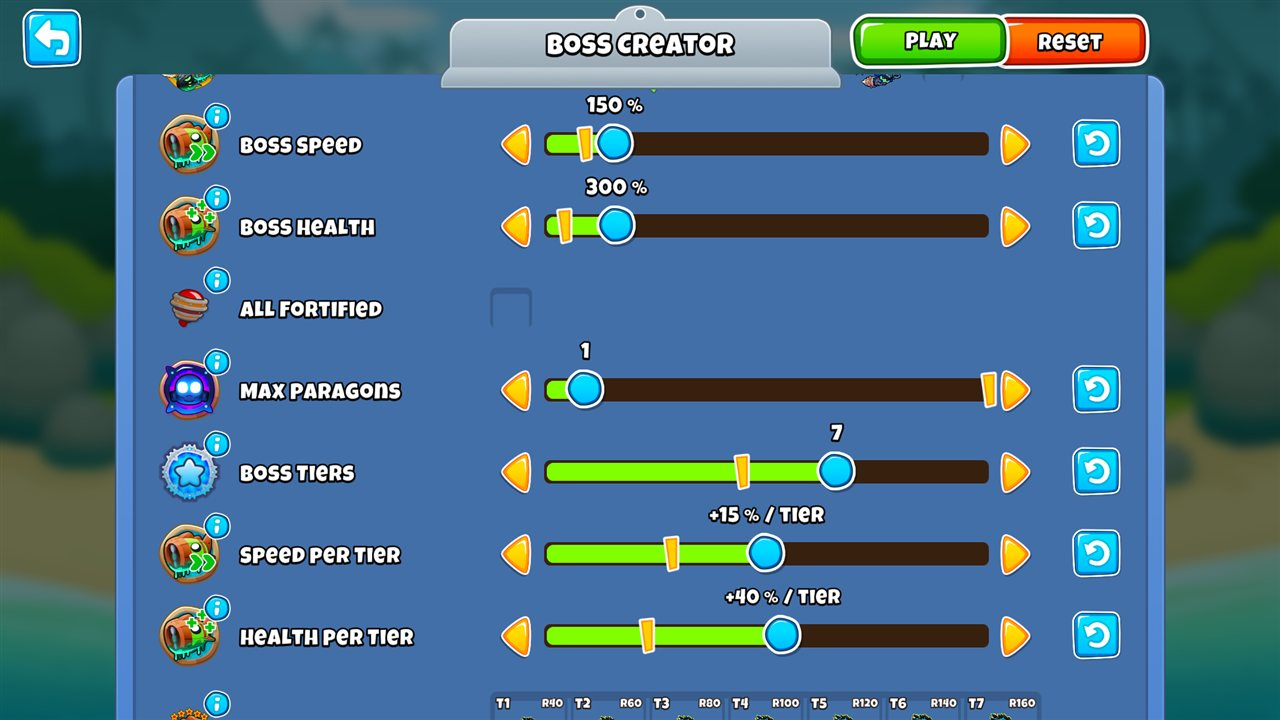
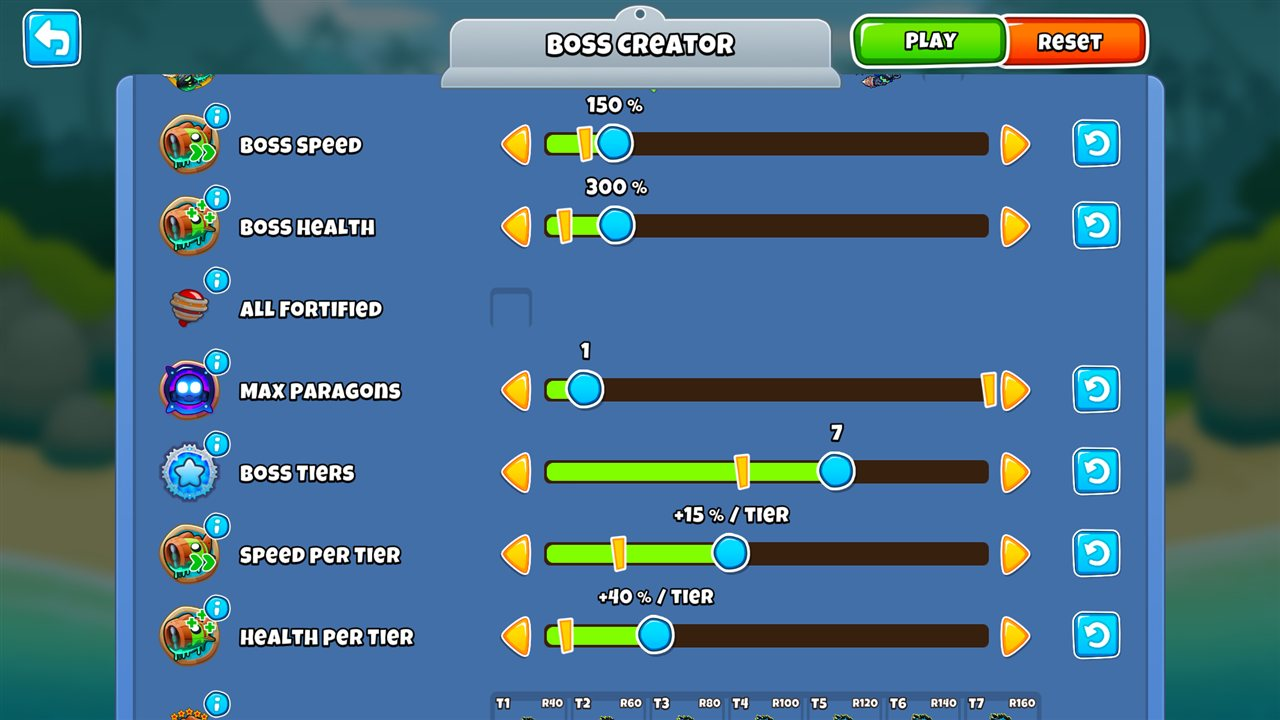
Add per tier steps up evenly, and give codes with them version 2
Speed and Health per Tier now add their share of the normal value for every tier after the first (+100 %
health makes tiers 2-5 x2, x3, x4 and x5) instead of compounding, with ranges -10..+50 % and -10..+200 %.
Old Extra Tier Health converts to the value that gives tier 6 the same health.

Share codes that use these options start with CBC2: so 2.2 asks for an update instead of loading them
without them; codes without them stay CBC1: and both read the same way.

diff --git a/Config/TierMath.cs b/Config/TierMath.cs
@@ -17,10 +17,10 @@ public static class TierMath
     public const int FirstSpawnRound = 40;
     public const int RoundsBetweenTiers = 20;
     public const int MaxRound = 1000;
-    public const int MinSpeedPerTier = -20;
+    public const int MinSpeedPerTier = -10;
     public const int MaxSpeedPerTier = 50;
-    public const int MinHealthPerTier = -30;
-    public const int MaxHealthPerTier = 100;
+    public const int MinHealthPerTier = -10;
+    public const int MaxHealthPerTier = 200;
     public const int PerTierStep = 5;
 
     /// <summary>
@@ -32,6 +32,11 @@ public static class TierMath
     /// No tier gets more than this much faster than the game makes it, however many tiers there are
     /// </summary>
     public const double MaxSpeedFactor = 5;
+
+    /// <summary>
+    /// Later tiers never drop below this share of the game's speed or health, however low the setting
+    /// </summary>
+    public const double MinPerTierFactor = 0.1;
 
     /// <summary>
     /// Boss models store health as an int, and boss health multipliers are applied on top of it
@@ -98,18 +103,23 @@ public static class TierMath
     public static string FormatRounds(IEnumerable<int> rounds) => string.Join(", ", rounds);
 
     /// <summary>
-    /// How much faster a tier is than the game makes it: <paramref name="percentPerTier"/> more for every tier after
-    /// the first, at most <see cref="MaxSpeedFactor"/>
+    /// How much faster a tier is than the game makes it: <paramref name="percentPerTier"/> of its speed added for
+    /// every tier after the first, so +20 % gives tier 3 ×1.4. At most <see cref="MaxSpeedFactor"/>.
     /// </summary>
     public static double SpeedFactor(int tier, int percentPerTier) =>
-        Math.Min(Math.Pow(1 + percentPerTier / 100.0, Math.Max(tier - 1, 0)), MaxSpeedFactor);
+        Math.Min(PerTierFactor(tier, percentPerTier), MaxSpeedFactor);
 
     /// <summary>
-    /// How much more health a tier has than the game would give it: <paramref name="percentPerTier"/> more for every
-    /// tier after the first
+    /// How much more health a tier has than the game would give it: <paramref name="percentPerTier"/> of its health
+    /// added for every tier after the first, so +100 % gives tier 5 ×5
     /// </summary>
-    public static double HealthFactor(int tier, int percentPerTier) =>
-        Math.Pow(1 + percentPerTier / 100.0, Math.Max(tier - 1, 0));
+    public static double HealthFactor(int tier, int percentPerTier) => PerTierFactor(tier, percentPerTier);
+
+    /// <summary>
+    /// 1 + percent × (tier - 1), never below <see cref="MinPerTierFactor"/>
+    /// </summary>
+    private static double PerTierFactor(int tier, int percentPerTier) =>
+        Math.Max(1 + percentPerTier / 100.0 * Math.Max(tier - 1, 0), MinPerTierFactor);
 
     /// <summary>
     /// Health of a tier relative to the game's tier of the same number, or to tier 5 above that: tiers above 5 get
@@ -122,12 +132,13 @@ public static class TierMath
     public static int ClampHealthPerTier(int percent) => Math.Clamp(percent, MinHealthPerTier, MaxHealthPerTier);
 
     /// <summary>
-    /// The Health per tier that gives tiers above 5 the health the old Extra Tier Health setting gave them, rounded
-    /// to the slider's step. Tiers 2-5 now get it too, which the old setting didn't do.
+    /// The Health per tier that gives tier 6 the health the old Extra Tier Health setting gave it, rounded to the
+    /// slider's step. Tiers 2-5 now get it too, which the old setting didn't do.
     /// </summary>
     public static int HealthPerTierFromExtraTierHealth(int extraTierHealth)
     {
-        var percent = (extraTierHealth / (ExtraTierStep * 100) - 1) * 100;
+        // Tier 6 used to be tier 5 x Extra Tier Health; now it is tier 5 x 1.5 x (1 + 5 x Health per tier)
+        var percent = (extraTierHealth / (ExtraTierStep * 100) - 1) / VanillaTiers * 100;
         return ClampHealthPerTier((int) Math.Round(percent / PerTierStep) * PerTierStep);
     }
 

diff --git a/Persistence/SetupCode.cs b/Persistence/SetupCode.cs
@@ -33,8 +33,14 @@ public enum CodeProblem
 /// </summary>
 public static class SetupCode
 {
+    /// <summary>
+    /// Codes start with "CBC", the format version and a colon. Version 1 codes (2.2) are read the same way; a code
+    /// that uses an option 2.2 doesn't know is version 2, so 2.2 asks for an update instead of silently dropping it.
+    /// </summary>
     public const string Prefix = "CBC1:";
+    public const string Version2Prefix = "CBC2:";
     public const string AnyVersionPrefix = "CBC";
+    public const int PrefixLength = 5;
 
     /// <summary>
     /// Longer codes are refused without being read
@@ -58,13 +64,18 @@ public static class SetupCode
             ["o"] = Diff(OptionsJson(options), OptionsJson(new BossOptions())) ?? new JObject(),
             ["c"] = Diff(ChallengeJson(dcm), ChallengeJson(DailyChallengeModel.CreateDefaultEditorModel())) ?? new JObject()
         };
-        return Pack(payload.ToString(Formatting.None));
+        return Pack(payload.ToString(Formatting.None), NeedsVersion2(options) ? Version2Prefix : Prefix);
     }
+
+    /// <summary>
+    /// Whether the code uses an option that version 1 readers (2.2) don't know
+    /// </summary>
+    public static bool NeedsVersion2(BossOptions options) => options.SpeedPerTier != 0 || options.HealthPerTier != 0;
 
     /// <summary>
     /// Turns JSON into a code without any checks, for tests
     /// </summary>
-    internal static string Pack(string json) => Prefix + ToBase64Url(Deflate(json));
+    internal static string Pack(string json, string prefix = Prefix) => prefix + ToBase64Url(Deflate(json));
 
     /// <summary>
     /// Reads a code. Never throws: anything that isn't a usable code gives a <see cref="CodeProblem"/>.
@@ -78,7 +89,7 @@ public static class SetupCode
 
         code = code?.Trim();
         if (string.IsNullOrEmpty(code) || code.Length > MaxLength) return false;
-        if (!code.StartsWith(Prefix))
+        if (!code.StartsWith(Prefix) && !code.StartsWith(Version2Prefix))
         {
             if (code.StartsWith(AnyVersionPrefix) && code.Length > 4 && char.IsDigit(code[3])) problem = CodeProblem.TooNew;
             return false;
@@ -86,7 +97,7 @@ public static class SetupCode
 
         try
         {
-            var payload = JObject.Parse(Inflate(FromBase64Url(code[Prefix.Length..])));
+            var payload = JObject.Parse(Inflate(FromBase64Url(code[PrefixLength..])));
 
             var optionsJson = OptionsJson(new BossOptions());
             if (payload["o"] is JObject optionsDiff) Apply(optionsJson, optionsDiff);
@@ -192,7 +203,7 @@ public static class SetupCode
     /// <summary>
     /// The JSON inside a code, for tests and troubleshooting
     /// </summary>
-    internal static string Contents(string code) => Inflate(FromBase64Url(code.Trim()[Prefix.Length..]));
+    internal static string Contents(string code) => Inflate(FromBase64Url(code.Trim()[PrefixLength..]));
 
     private static JObject OptionsJson(BossOptions options) => JObject.FromObject(options, OptionsSerializer);
 

diff --git a/Tests/OptionsTests.cs b/Tests/OptionsTests.cs
@@ -81,17 +81,19 @@ public class TierMathTest : CustomBossTest
 
         Assert(TierMath.SpeedFactor(1, 50) == 1 && TierMath.HealthFactor(1, 100) == 1, "Tier 1 keeps the game's values");
         Assert(TierMath.SpeedFactor(7, 0) == 1 && TierMath.HealthFactor(7, 0) == 1, "0 % keeps every tier as the game makes it");
-        Assert(System.Math.Abs(TierMath.SpeedFactor(3, 20) - 1.44) < 1e-9, "Tier 3 at +20 % speed per tier");
-        Assert(System.Math.Abs(TierMath.SpeedFactor(3, -20) - 0.64) < 1e-9, "Tier 3 at -20 % speed per tier");
+        Assert(System.Math.Abs(TierMath.SpeedFactor(3, 20) - 1.4) < 1e-9, "Tier 3 at +20 % speed per tier adds 2 x 20 %");
+        Assert(System.Math.Abs(TierMath.SpeedFactor(3, -10) - 0.8) < 1e-9, "Tier 3 at -10 % speed per tier");
+        AssertEquals(TierMath.HealthFactor(10, TierMath.MinHealthPerTier), TierMath.MinPerTierFactor, "Later tiers keep a minimum");
         AssertEquals(TierMath.SpeedFactor(10, TierMath.MaxSpeedPerTier), TierMath.MaxSpeedFactor, "Speed is capped");
-        Assert(System.Math.Abs(TierMath.HealthFactor(3, 50) - 2.25) < 1e-9, "Tier 3 at +50 % health per tier");
+        Assert(System.Math.Abs(TierMath.HealthFactor(3, 50) - 2) < 1e-9, "Tier 3 at +50 % health per tier");
+        Assert(System.Math.Abs(TierMath.HealthFactor(5, 100) - 5) < 1e-9, "Tier 5 at +100 % health per tier is x5, not x16");
         Assert(TierMath.ExtraTierFactor(5) == 1 && System.Math.Abs(TierMath.ExtraTierFactor(7) - 2.25) < 1e-9,
             "Tiers above 5 get +50 % each, like before");
-        foreach (var (old, perTier) in new[] {(150, 0), (225, 50), (175, 15), (100, -30), (500, 100)})
+        foreach (var (old, perTier) in new[] {(150, 0), (225, 10), (175, 5), (100, -5), (500, 45)})
         {
             AssertEquals(TierMath.HealthPerTierFromExtraTierHealth(old), perTier, $"Extra Tier Health {old}");
         }
-        AssertEquals(new BossOptions {ExtraTierHealth = 225}.Sanitized(), new BossOptions {HealthPerTier = 50},
+        AssertEquals(new BossOptions {ExtraTierHealth = 225}.Sanitized(), new BossOptions {HealthPerTier = 10},
             "Old Extra Tier Health becomes Health per Tier");
         AssertEquals(new BossOptions {ExtraTierHealth = 225, HealthPerTier = 10}.Sanitized(), new BossOptions {HealthPerTier = 10},
             "A Health per Tier that is set wins over the old setting");

diff --git a/Menus/Texts.cs b/Menus/Texts.cs
@@ -44,12 +44,12 @@ public static class Texts
 
     public static readonly string SpeedPerTier = Key(nameof(SpeedPerTier), "Speed per Tier");
     public static readonly string SpeedPerTierInfo = Key(nameof(SpeedPerTierInfo),
-        "How much faster each tier is than the one before it, on top of the game's own steps. 0 % keeps the normal " +
-        "speeds; below 0 makes later tiers slower.");
+        "Adds this share of the normal speed for every tier after the first, on top of the game's own steps: +20 % " +
+        "makes tier 2 ×1.2, tier 3 ×1.4 and so on. Below 0 makes later tiers slower.");
     public static readonly string HealthPerTier = Key(nameof(HealthPerTier), "Health per Tier");
     public static readonly string HealthPerTierInfo = Key(nameof(HealthPerTierInfo),
-        "How much more health each tier has than the one before it, on top of the game's own steps. Tiers above 5 " +
-        "already get +50 % each, like the game's steps. 0 % keeps the normal health.");
+        "Adds this share of the normal health for every tier after the first, on top of the game's own steps: " +
+        "+100 % makes tier 2 ×2, tier 3 ×3 and so on. Tiers above 5 already get +50 % each. 0 % keeps the normal health.");
     public static readonly string TierPreview = Key(nameof(TierPreview), "Tier Preview");
     public static readonly string TierPreviewInfo = Key(nameof(TierPreviewInfo),
         "Every tier with the round it arrives on, its speed compared to the normal game and its health. Orange is " +
@@ -89,7 +89,7 @@ public static class Texts
     public static readonly string LoadCodeQuestion = Key(nameof(LoadCodeQuestion),
         "Load this setup? Your current setup will be replaced.");
     public static readonly string CodeInvalid = Key(nameof(CodeInvalid),
-        "The clipboard doesn't contain a Boss Creator code. Copy the whole code, starting with CBC1:");
+        "The clipboard doesn't contain a Boss Creator code. Copy the whole code, starting with CBC");
     public static readonly string CodeTooNew = Key(nameof(CodeTooNew),
         "This code comes from a newer version of Custom Boss Challenge. Update the mod to load it.");
     public static readonly string Load = Key(nameof(Load), "Load");

diff --git a/Tests/SetupCodeTests.cs b/Tests/SetupCodeTests.cs
@@ -84,10 +84,22 @@ public class SetupCodeTest : CustomBossTest
             AssertEquals(badDcm, null, $"Challenge of '{Shorten(bad)}'");
         }
 
+        // A code that uses Speed or Health per Tier is version 2, so 2.2 asks for an update instead of dropping them;
+        // codes without them stay version 1 and still work in 2.2. Both read the same way.
+        Assert(code.StartsWith(SetupCode.Version2Prefix), $"A code with Speed per Tier must be version 2: {code}");
+        Assert(SetupCode.Encode(options with {SpeedPerTier = 0, HealthPerTier = 0}, dcm).StartsWith(SetupCode.Prefix),
+            "A code without per tier options must stay version 1");
+        Assert(SetupCode.TryDecode(SetupCode.Pack(SetupCode.Contents(code)), out var asVersion1, out _, out _),
+            "The same contents must also read as version 1");
+        AssertEquals(asVersion1, options, "Options read as version 1");
+        Assert(!SetupCode.TryDecode("CBC3:" + code[SetupCode.PrefixLength..], out _, out _, out var version3),
+            "A version 3 code must not decode");
+        AssertEquals(version3, CodeProblem.TooNew, "Problem of a version 3 code");
+
         // Codes from before 2.3 had Extra Tier Health; it becomes Health per Tier
         Assert(SetupCode.TryDecode(SetupCode.Pack("{\"o\":{\"Tiers\":7,\"ExtraTierHealth\":225},\"c\":{}}"), out var old, out _, out _),
             "An old code must still load");
-        AssertEquals(old, new BossOptions {Tiers = 7, HealthPerTier = 50}, "Old code options");
+        AssertEquals(old, new BossOptions {Tiers = 7, HealthPerTier = 10}, "Old code options");
 
         Assert(!SetupCode.TryDecode("CBC9:" + payload, out _, out _, out var tooNew), "A newer code must not decode");
         AssertEquals(tooNew, CodeProblem.TooNew, "Problem of a code from a newer version");

diff --git a/Tests/BossCreatorTests.cs b/Tests/BossCreatorTests.cs
@@ -105,8 +105,8 @@ public class BossCreatorTest : CustomBossTest
         AssertEquals(cards[0].Round.Text.text, "R30", "Round of tier 1");
         AssertEquals(cards[0].Speed.Text.text, "×1.5", "Speed of tier 1 (Boss Speed 150 %)");
         AssertEquals(cards[0].Health.Text.text, "125k", "Health of Vortex Elite tier 1 at 300 %");
-        AssertEquals(cards[2].Speed.Text.text, "×2.16", "Speed of tier 3 (+20 % per tier)");
-        AssertEquals(cards[6].Speed.Text.text, "×4.48", "Speed of tier 7");
+        AssertEquals(cards[2].Speed.Text.text, "×2.1", "Speed of tier 3 (+20 % per tier)");
+        AssertEquals(cards[6].Speed.Text.text, "×3.3", "Speed of tier 7");
         AssertEquals(cards[6].Health.Text.text, "201M", "Health of tier 7, capped like in the game");
         AssertEquals(cards[0].Speed.Text.color, TierStrip.Higher, "Faster than the normal game is orange");
         section.BossSpeed.Slider.value = 50;

diff --git a/Tests/PersistenceTests.cs b/Tests/PersistenceTests.cs
@@ -82,7 +82,7 @@ public class PersistenceTest : CustomBossTest
             }, "Odd values brought into range");
 
             // Setups from before 2.3 stored Extra Tier Health for tiers above 5; it becomes Health per Tier
-            foreach (var (old, perTier) in new[] {(150, 0), (225, 50), (175, 15), (100, -30)})
+            foreach (var (old, perTier) in new[] {(150, 0), (225, 10), (175, 5), (100, -5)})
             {
                 File.WriteAllText(store.FilePath,
                     $"{{\"Version\": 2, \"Challenge\": {challenge}, \"Options\": {{\"Tiers\": 7, \"ExtraTierHealth\": {old}}}}}");

diff --git a/Tests/ExtraTierTests.cs b/Tests/ExtraTierTests.cs
@@ -170,7 +170,7 @@ public class TierScalingTest : CustomBossTest
         {
             foreach (var elite in new[] {false, true})
             {
-                foreach (var (speed, health) in new[] {(0, 0), (20, 50), (-20, -30), (50, 100)})
+                foreach (var (speed, health) in new[] {(0, 0), (20, 50), (-10, -10), (50, 200)})
                 {
                     var options = new BossOptions
                         {Boss = boss, Elite = elite, Tiers = 10, SpeedPerTier = speed, HealthPerTier = health};

diff --git a/README.md b/README.md
@@ -26,7 +26,8 @@ Event and your Boss Challenge records and saves are never affected.
   - **Max Paragons**, the paragon limit events use, from 0 to Unlimited.
   - **Boss Tiers** from 1 to 10. Tiers above 5 are copies of tier 5 with +50 % health per tier.
   - **Speed per Tier** and **Health per Tier**: make every tier faster and tougher than the one before it, on top of
-    the game's own steps (or easier, below 0).
+    the game's own steps (or easier, below 0). The steps add up evenly: +100 % health makes tiers 2-5 ×2, ×3, ×4
+    and ×5.
   - **Tier Preview**: a card per tier with the round it arrives on, its speed and its health, orange where it is
     harder than the normal game and blue where it is easier.
     With fewer than 5 tiers, beating the last one wins the game.
@@ -68,8 +69,9 @@ rule, into a short text code:
 A code is only data: it can't run anything, and custom games are always unranked and never touch your records.
 Codes are checked before they load, so values outside what the game can play are brought back into range.
 
-Codes start with `CBC1:` and only contain what differs from a new setup, so they are usually a few hundred
-characters. A new, unchanged setup gives a code like this one:
+Codes start with `CBC1:`, or `CBC2:` when they use Speed or Health per Tier so that older versions of the mod
+ask for an update instead of loading them without those settings. They only contain what differs from a new
+setup, so they are usually a few hundred characters. A new, unchanged setup gives a code like this one:
 
 ```
 CBC1:q1bKV7KqrtVRSgZSSsWpqSlKVoamZiZGFmbGlrW1AA
@@ -87,8 +89,8 @@ CBC1:q1bKV7KqrtVRSgZSSsWpqSlKVoamZiZGFmbGlrW1AA
 | All Fortified | on / off | off | |
 | Max Paragons | 0 – Unlimited | Unlimited | How many paragons can be placed. 0 allows none; all the way to the right has no limit. |
 | Boss Tiers | 1–10 | 5 | The game is won when the last tier is defeated. |
-| Speed per Tier | −20 to +50 % | 0 % | Each tier this much faster than the one before it, on top of the game's own steps. Capped at ×5. |
-| Health per Tier | −30 to +100 % | 0 % | Each tier this much tougher than the one before it, on top of the game's own steps (tiers above 5 already get +50 % each). |
+| Speed per Tier | −10 to +50 % | 0 % | This share of a tier's normal speed is added for every tier after the first: +20 % makes tier 3 ×1.4. Capped at ×5. |
+| Health per Tier | −10 to +200 % | 0 % | This share of a tier's normal health is added for every tier after the first: +100 % makes tier 5 ×5. Tiers above 5 already get +50 % each. |
 | Spawn Rounds | comma separated rounds | 40, 60, 80, … | Missing rounds continue every 20 rounds; rounds always ascend. |
 | Skulls | Vanilla / Evenly Spaced / Custom % | Vanilla | |
 | Skull Count | 0–10 | 3 | Evenly Spaced only; 0 removes all skulls. |

diff --git a/CHANGELOG.md b/CHANGELOG.md
@@ -12,7 +12,8 @@ and this project adheres to [Semantic Versioning](https://semver.org/spec/v2.0.0
 ### Added
 
 - **Speed per Tier** and **Health per Tier**: every tier can be faster and tougher than the one before it, on top of
-  the game's own steps, also in normal 5 tier games. Below 0 makes later tiers easier.
+  the game's own steps, also in normal 5 tier games. The steps add up evenly: +100 % health makes tiers 2-5 ×2,
+  ×3, ×4 and ×5. Below 0 makes later tiers easier.
 - **Tier Preview**: a card per tier showing the round it arrives on, its speed and its health with every boss option
   applied, orange where it is harder than the normal game and blue where it is easier.
 
@@ -21,6 +22,8 @@ and this project adheres to [Semantic Versioning](https://semver.org/spec/v2.0.0
 - Health per Tier replaces Extra Tier Health. Tiers above 5 still get +50 % health each by default. Saved setups and
   share codes with another Extra Tier Health are converted to the Health per Tier that gives those tiers the same
   health; tiers 2-5 then get it too, and the log says so.
+- Share codes that use Speed or Health per Tier start with `CBC2:`, so 2.2 asks for an update instead of loading them
+  without those settings. Codes without them still start with `CBC1:` and work in 2.2 too.
 
 ## [2.2.1] - 2026-10-18
 
